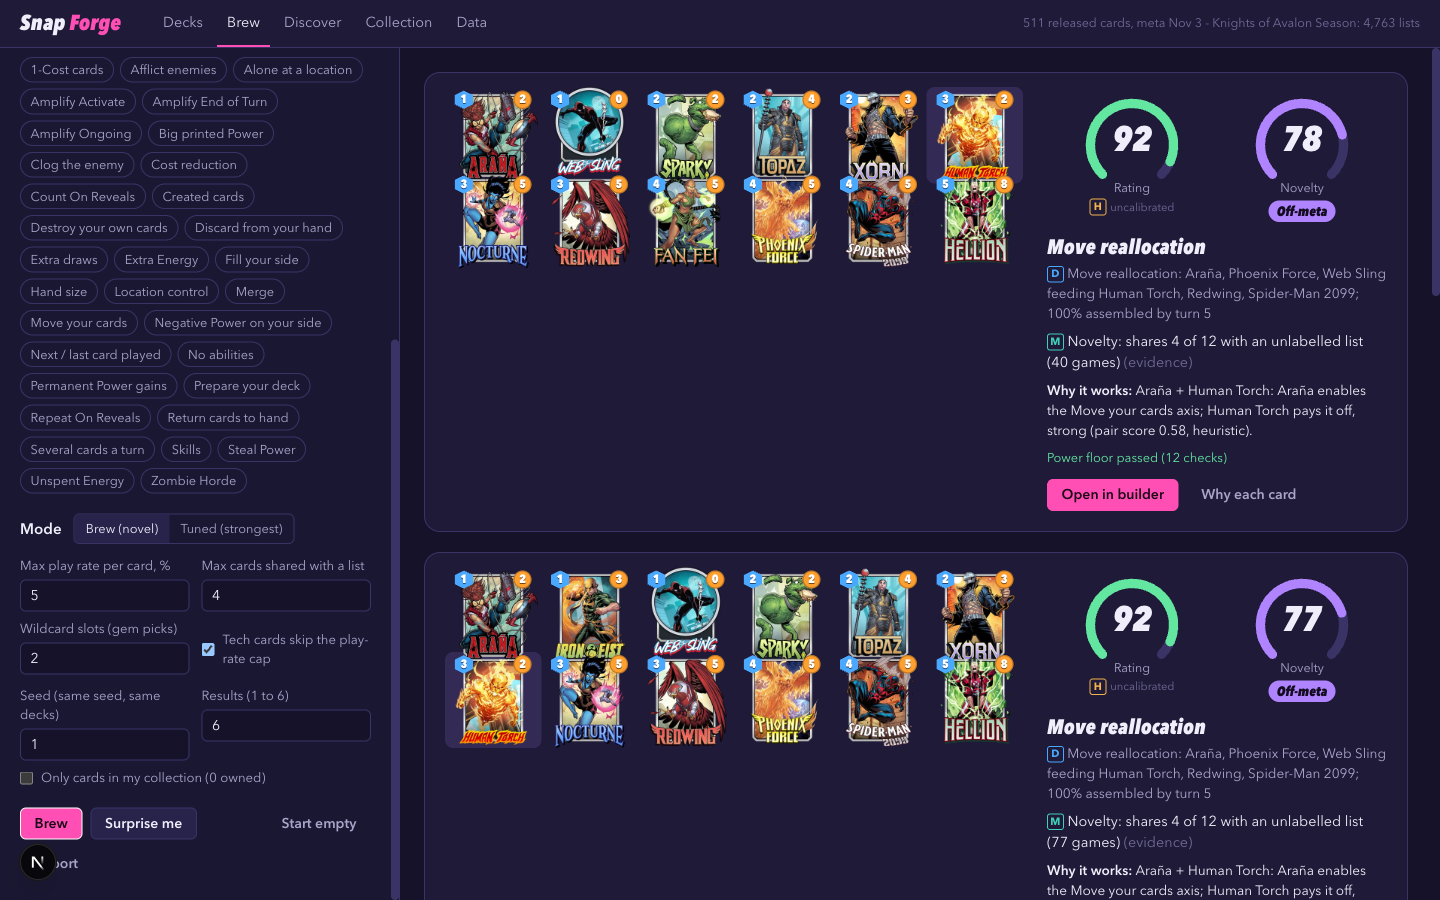
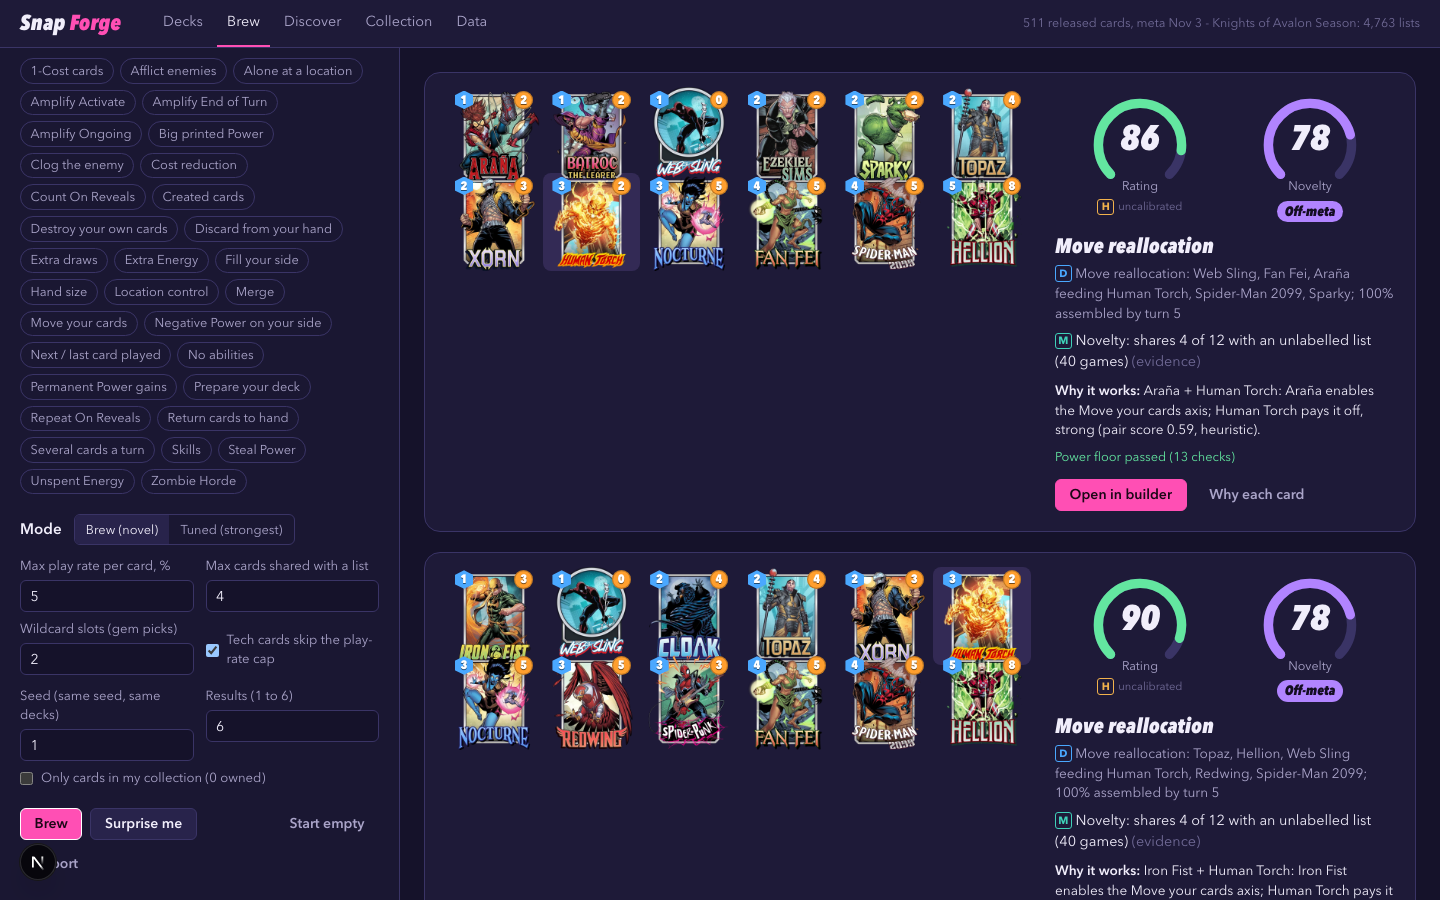
docs: calibration pass numbers, known limitations and screenshots
README "What was measured", STATUS known limitations and HANDOVER "After the calibration pass" with
before/after numbers; brew-human-torch.png and builder-rating.png retaken from the running app on a
copy of the real database.

diff --git a/docs/HANDOVER.md b/docs/HANDOVER.md
@@ -140,3 +140,30 @@ Suite 437 tests (+ `tests/ingest/calibrate.test.ts` 2, rating fix-wording 1, lin
 - **Read as a player, not fixed** (recorded in STATUS known limitations): the move package recurs around unrelated build-arounds; "Make it stronger" on the Zombie list cuts Vampire Killmonger (no spend-all-energy family); "Make it more original" on the most-played Zombie and Arthur lists returns no swap (every swap costs rating); field lines are generic; Doctor Doom is the first cut from the Arthur list after the fix.
 - **Screenshots** in `docs/screenshots/` (1440x900, real synced data): brew start, three brews, picks, builder Rating/Plan/Lines/Novelty/Improve, Discover, Collection, Data, Decks. Taken on a database copy with one saved brew.
 - `AGENTS.md`: the `next dev` Next.js block is committed with this task so the tree stays clean.
+
+## After the calibration pass
+
+2026-11-13. Measured on the fixture (511 released cards, 300 lists, 208 clusters) unless marked [real] (build 58.15.3, 4,763 lists, 2,810 clusters; `pnpm sync features` re-run: 14,503 edges, 1,071 strong, 37 of 48 archetypes tagged, was 30). Suite 448 tests.
+
+| | Before | After |
+|---|---|---|
+| Floor: top-200 lists pass / random piles pass | 98/200 / 0/50 | 170/200 [181/200] / 0/50 (1/150 in a second set, seed 7) |
+| Rating: lists 60+ / random under 40 | 91/200 / 41/50 | 181/200 [185] / 47/50 [47] |
+| Rating p10/p50/p90: lists | 30 / 53 / 85 | 60 / 85 / 92 [67 / 85 / 93] |
+| ... brews (first results, property run) | 73 / 88 / 93 | 70 / 80 / 83 (both results) [78 / 84 / 88] |
+| ... random piles | 23 / 32 / 51 | 16 / 23 / 36 [18 / 27 / 37] |
+| Brew property run (20 off-meta cards) | 10 produce, 10 refused | 13 produce (count 1; 14 at count 2), 7 refused |
+| Real read-out (10 off-meta cards) | 3 produce | 6 produce |
+| Results 1 vs 2 of one build, cards different | min 1, median 3 | min 4, median 4 |
+| Most repeated non-lock card in the property run | Spider-Man 2099 in 7 of 10 | Spider-Man 2099 in 7 of 13; Aurora (74% of the pool linked) gone |
+| Tuned builds around the 5 top cores keeping the archetype plan | 1 of 5 (4 became Destroy scaling) | 5 of 5 |
+| Partner band (0.4-0.5, text-backed) held-out precision | not audited | 34 true, 5 lenient, 1 false: 85% strict |
+
+- **Network fixes (from reading 80 band edges in two development rounds, `edge-audit.json` `partnerBandDev`, `partnerBandDev2`).** Skill-only creators (Merlin, Clea, The Ancient One, a skill that copies itself) no longer feed payoffs that need the created card in play or with Power (Mockingbird, Strange Supreme, Eson, Victoria Hand, Zombie Mister Fantastic); skills have no Power and are banished (mechanics §1.2). `rules.ts` `Node.skillsOnly`, built from `Card.tokens` and every skill row (`buildEdges(cards, features, skillIds)`). Aunt May's "used a Moveable ability" needs a Moveable card or grant (not Iron Fist, Araña). Quinjet's minimum-1 discount skips creators whose cards already cost 0 (Swarm). Deck preparation: a Cost cut on deck cards pairs only with an "or less" Cost puller (Malekith, not Blink or Zabu x Ares), copying a deck card's text (Iron Lad) needs a stacked top card, Monstro reads the top card's Cost, and setting a deck card's Power to 0 (Anti-Venom) helps no puller. The frozen sample's Clea x Zombie Mister Fantastic was re-judged lenient -> false on the skill rule. Strong set +43 / -6 (fan-out narrowed); the new strong edges were read (Aunt May with Moveable cards, America Chavez with Ares and Jubilee, Okoye and Phastos with deck pullers: true or lenient).
+- **Partners and cohesion** (`network/edges.ts` `PARTNER = 0.4`, `isPartner`, `gradedWeight`; `rating/deck.ts` `cohesionOf`, `measuredPair`, `cohesionNull`, `cohesionBar`, `synergyValueOf`, `cappedAnti`, `tiedCards`). Builder C5 counts partners (strong, or 0.4+ with a text-derived reason). Cohesion = sum over pairs of max(graded mechanical x 0.8, measured). Measured = co-play over clusters: each card in 5+ clusters, the pair in 3+, the Wilson-lower-bound lift at least 1.5, weight = share of the rarer card's clusters holding the other (0.1 -> 0, 0.5 -> 1). A raw smoothed lift let random piles of the real database reach cohesion 9 (cards of one archetype family co-occur everywhere); the conditional share does not. Measured evidence is labelled measured, never feeds novelty, gems or pick explanations, and C5 counts mechanical partners only.
+- **Floor** (`floor.ts`). C6 `cohesion` (>= the bar: max(6.5, the highest cohesion of 300 random piles drawn with mulberry32(20261130) from the same database), replaces `strongPairs`; `unlinked` counts measured pairs as links; C4 also passes on a known archetype core (measured) or cohesion 12+; C7's waiver counts partners and measured pairs; C2 17.5 and C3 25% are the 5th / 95th percentile of the 200 real lists (research 18.0 / 10% from 15 lists); new `needs` check: a card that revives or counts your destroyed or discarded cards needs a card that destroys or discards (`statedNeeds`; Phoenix Force had been picked into decks that destroy nothing). No meta list fails it. `linkedPairsAlt` is gone.
+- **Plans** (`sync-data/plans.json`, 23 families): `created-cards`, `skills`, `spend-all-energy`, `empower`; `plans/detect.ts` `archetypeCore` (5 of an archetype's 8 most-played cards, archetypes with 500+ games), `coreArchetypes`, `lockedArchetypePlan`. The Created Cards and Vampire Killmonger samples now detect their own families.
+- **Rating** (`rate.ts`, `constants.ts`). Weights 28/18/8/14/6/12/14 (synergy, plan, energy, consistency, quality, resilience, coherence; spec 18/18/16/14/14/10/10): energy (meta 0.77 vs random 0.84) and quality (0.72 vs 0.71) did not separate real decks from random ones. Synergy = 0.7 x cohesion credit (mechanical pairs at most `COHESION.mechCap` 0.5 of it) + 0.3 x linked share - anti (capped at 0.5 per card: Lady Sif discards one card, not four). Plan, consistency and resilience: credit for a known core (0.9 x share held) and for a cohesive package with no family (0.6 x share above the bar); all three scale from 0 at half the cohesion bar to full at the bar. Consistency maps assembly from 0.6 (was 0.7). Coherence ignores tech cards, core cards and cards tied by a pair of weight 0.5+; "rewards repeat on reveals" fixes no longer fire for carrier axes (On Reveal, Ongoing, End of Turn, Activate cards, deck pullers, draw triggers, global buffs). `mechCap` was set so brews do not outrank the median meta list (real: 0.8 gave brews a median of 90 against 85).
+- **Builder** (`search.ts`, `build.ts`). Brew objective uses `synRel` (pairs with no tie to a lock count 0.35), `- 10 x hub breadth above 15%` and `- 6 per card neither tied to a lock nor a non-stat piece of the lock's plan family`. Later annealing chains pay 6 per card shared beyond 8 with an earlier chain's best deck, and the exact check skips any candidate within 4 cards of an earlier result (`SEARCH.minDiff`). Tuned builds whose locks are 75% of an archetype's core keep that archetype's plan (violation otherwise; free search as fallback, said in `why`). Ablation reads the uncapped synergy value (the capped sub-score saturates for brews). Picks name a locked card's partner first. The C5 refusal and floor detail say what a partner is.
+- **Read as a player** (real read-out, `pnpm tsx src/ingest/calibrate.ts`): White Queen + Eson (her copy is a created card Eson puts into play) and Uatu as the 1-Cost body of a Ka-Zar / Marvel Boy / Cull Obsidian deck are real; Phoenix Force in a Man-Spider deck with no destroyer was the one unreal pick, fixed by the `needs` check. Lenient patterns left: Phoenix Force x a merge payoff needs that card destroyed first; Red Shift's leftmost discard.
+- **Left, and why.** Floor and rating stay below 95%: Arthur lists fail no-play-on-turn-3 because the energy model ignores Zabu's and Captain Britain's cost cuts, ramp lists (Galactus, Arishem) because it ignores generated cards, and on the fixture 16 lists have too little co-play evidence (208 clusters). Changing the energy model was out of scope for this pass. The measured-evidence and cohesion thresholds, the mechanical cap and the builder penalties are heuristic; the cohesion bar and the 150-pile second check keep random piles out without fitting the 50 test piles.

diff --git a/docs/STATUS.md b/docs/STATUS.md
@@ -2,7 +2,7 @@
 
 This file is the single place a new session reads to continue the build if the previous one was cut off. Update it at every stage boundary, in the same commit as the stage's work.
 
-Last updated: 2026-11-13. Stages 0-6 are done (plan Tasks 1-12, last commit "Task 12"). **Next: stage 7, package and publish (plan Task 13). It waits for the owner's confirmation** before any packaging work that leads to a push: creating a public repository is outward-facing, and the data source's terms forbid scraping without written permission and allow personal, non-commercial use only (`docs/research/data-sources.md`, `meta-sources.md`). The owner's Fable quota is low: run agents on Opus and keep orchestrator turns few.
+Last updated: 2026-11-13. Stages 0-6 are done (plan Tasks 1-12, last commit "Task 12"), followed by a calibration pass (floor, rating, partners, plan families, builder diversity; `docs/HANDOVER.md` "After the calibration pass"). **Next: stage 7, package and publish (plan Task 13). It waits for the owner's confirmation** before any packaging work that leads to a push: creating a public repository is outward-facing, and the data source's terms forbid scraping without written permission and allow personal, non-commercial use only (`docs/research/data-sources.md`, `meta-sources.md`). The owner's Fable quota is low: run agents on Opus and keep orchestrator turns few.
 
 ## Owner's decisions (do not re-ask)
 
@@ -46,13 +46,16 @@ Expected files in `docs/research/`; a file is verified when it ends with a `## V
 
 Measured on the fixture (511 released cards, 300 meta lists) and the real database (build 58.15.3, meta period 137), 2026-11-13.
 
-- **Rating not calibrated.** 91 of the 200 most-played lists rate 60+ (target 95%); 41 of 50 random piles rate under 40 (target all). The rating is labelled heuristic and uncalibrated everywhere it is shown. It overrates move and destroy packages: tuned builds around 4 of the 5 top archetype cores turn into "Destroy scaling" decks.
-- **Power floor below target.** 98 of 200 meta lists pass (target 95%); 0 of 50 random piles pass. Meta lists fail mostly on strong pairs (71) and plan detection (38).
-- **Plan families missing** for big meta archetypes: created cards, skills, "spend all your Energy" (Vampire Killmonger, Merlin). "Make it stronger" can therefore cut Vampire Killmonger from a Zombie list; lock a card to keep it.
-- **Interaction recall.** Strong edges favour precision (82.5% strict on a held-out 40). Many real partners score 0.4-0.49 and do not count, so 10 of 20 random off-meta build-arounds are refused (Thor, Namora, Okoye, Surtur, ...). In the real-database read-out 7 of 10 off-meta cards were refused, 6 of them for too few strong partners (White Queen, Uatu, Strong Guy, The Fallen One, Spider-Man Noir, Doctor Octopus) and Punisher on the ablation check.
-- **Same core in many brews.** The move package (Sparky, Hercules, Nocturne, Redwing, Spider-Man 2099, Web Sling) is dense and well rated, so it shows up around unrelated build-arounds (Polaris, Selene, Bruce Banner). Results 2-6 usually include a deck on the card's own plan.
+Calibration pass (2026-11-13): numbers below are after it; before/after in `docs/HANDOVER.md` "After the calibration pass".
+
+- **Rating tuned, still short of the spec target and not calibrated against win rates.** 181 of the 200 most-played fixture lists rate 60+ (target 95%; real database 185), 47 of 50 random piles rate under 40 (target all). The three random piles at 40-60 hold a real package by chance (two Moveable cards and two move payoffs). Median meta list 85, median brew 80 (real 84): pairs with no measured co-play earn at most half the synergy credit, a heuristic choice made so a brew does not outrank the median meta list by default.
+- **Power floor below target.** 170 of 200 fixture lists pass (target 95%; real database 181 of 200); 0 of 50 random piles pass, 1 of 150 in a second set (a destroy package by chance). The rest fail the energy model (Arthur lists: Zabu's and Captain Britain's cost cuts are not modelled; ramp lists: generated cards are not modelled) or cohesion on the thin fixture corpus (208 clusters; co-play evidence needs a pair in 3+ clusters).
+- **Measured evidence depends on the corpus.** Co-play counts only for pairs seen in 3+ clusters with a significant lift; the floor's cohesion bar is set from 300 seeded random piles of the same database, so it rises with a bigger snapshot (6.5 on the fixture). Thin snapshots give lists less measured cohesion.
+- **Interaction recall.** Partners now include 0.4-0.5 edges with a text-derived reason (held-out band audit 85% strict); 7 of 20 random off-meta build-arounds are still refused (Namora, Gilgamesh, H.E.R.B.I.E., Super-Adaptoid: fewer than 3 partners under the 5% play-rate prompt; Thor, Esme Cuckoo, Namorita: no deck clears the floor and novelty bar). Real read-out: 6 of 10 produce; Doctor Octopus, Strong Guy, The Fallen One and Spider-Man Noir are refused for partners.
+- **Repeated cards.** Hub damping and lock relevance removed Aurora-style riders; Spider-Man 2099 is still in 7 of 13 brews (it moves and afflicts, so it sits in move and affliction plans). Results of one build differ by at least 4 cards.
+- **Plan families** were added for created cards, skills, spend-all-energy and Empower; a deck holding 5 of an archetype's 8 most-played cards counts as that archetype (measured). Lists without a family or a known core (Kazoo-like piles, On Reveal piles) still get no plan unless their cards cohere well above chance.
 - **Field advice is generic.** Lines against each archetype repeat "race it with your payoffs" unless a tech card applies; no win-rate matrix.
-- **Energy model** ignores board space and generated cards; turn lines group plays by cost and do not say how many.
+- **Energy model** ignores board space, generated cards and cost cuts from other cards (the main reason Arthur lists fail no-play-on-turn-3); turn lines group plays by cost and do not say how many.
 - **Parser gaps** listed in `docs/HANDOVER.md` (Task 4 and engine review): about 2% of cards with a known wrong target, Mysterio, Frankie Raye, Sandstorm lossy.
 - **Not implemented:** stale-stats and recently-changed warnings (no balance-change log), win-rate prediction (non-goal), phone layout (non-goal). The game-state-file collection import was not tested against a real file.
 - **Data terms.** The data source allows personal, non-commercial use and forbids scraping without permission; fine for a local tool, to be weighed before publishing (stage 7).

diff --git a/README.md b/README.md
@@ -50,17 +50,21 @@ Every number in the UI carries a tag: **M** measured, **D** derived, **H** heuri
 - **Derived** (exact maths over the deck): draw and assembly odds (hypergeometric), the energy model's expected energy spent and no-play odds (a seeded simulation with simple play rules).
 - **Heuristic** (rules written for this tool, not calibrated against win rates): card quality, the interaction network's pair scores, plan families, the deck rating and its weights, the power floor thresholds, swap order, matchup and tech advice.
 
-What was measured about the heuristics (fixture of 511 released cards and 300 real meta lists, November 2026):
+What was measured about the heuristics (fixture of 511 released cards and 300 real meta lists, November 2026; calibration pass 2026-11-13, real database of 4,763 lists in brackets):
 
 | Check | Result | Target in the design |
 |---|---|---|
 | Parser, hand-read clause audit (125 cards) | 124/125 parser alone, 125/125 with reviewed overrides | 95% |
 | Strong interaction edges, held-out hand check (40) | 82.5% strictly true, 100% at least lenient | 85% strict |
-| Rating: top-200 meta lists rated 60+ | 91 of 200 (45.5%); random piles under 40: 41 of 50 | 95% / 100% |
-| Power floor: top-200 meta lists pass | 98 of 200 (49%); random piles passing: 0 of 50 | 95% / 0% |
-| Brew around 20 random off-meta cards | 10 decks, 10 explicit refusals (too few strong partners) | 12 decks |
+| Partner edges (0.4 to 0.5, text-backed), held-out hand check (40) | 85% strictly true, 97.5% at least lenient (after two development rounds that fixed 8 false patterns) | 80% strict |
+| Power floor: top-200 meta lists pass | 170 of 200, 85% [181 of 200]; random piles passing: 0 of 50 (1 of 150 in a second set) | 95% / 0% |
+| Rating: top-200 meta lists rated 60+ | 181 of 200, 90.5% [185]; random piles under 40: 47 of 50 [47] | 95% / 100% |
+| Rating distributions, 10th / 50th / 90th percentile | meta lists 60 / 85 / 92 [67 / 85 / 93]; brews 70 / 80 / 83 [78 / 84 / 88]; random piles 16 / 23 / 36 [18 / 27 / 37] | brews not above the meta median |
+| Brew around 20 random off-meta cards | 13 decks, 7 refusals with reasons [real read-out: 6 of 10] | at most 8 refused |
+| Results of one build | differ by at least 4 cards (was 1) | 4 |
+| Tuned build around the 5 most-played archetype cores | 5 of 5 keep the archetype's plan (was 1 of 5) | 5 |
 
-The rating is a construction check: it says a deck has a plan, a curve, linked cards and answers, not that it wins. A brew and a meta list with the same rating are not known to be equally strong. Novelty is never merged into the rating. See `docs/STATUS.md` for the known limitations.
+The rating is a construction check: it says a deck has a plan, a curve, linked cards and answers, not that it wins. Pairs that meta players are measured to play together count fully; pairs only the interaction network sees earn at most half of the synergy credit, so a brew rates below a proven list built as well. The rating is not calibrated against win rates. Novelty is never merged into the rating and never uses measured co-play as evidence of an interaction. See `docs/STATUS.md` for the known limitations.
 
 ## Data sources and caveats
 
